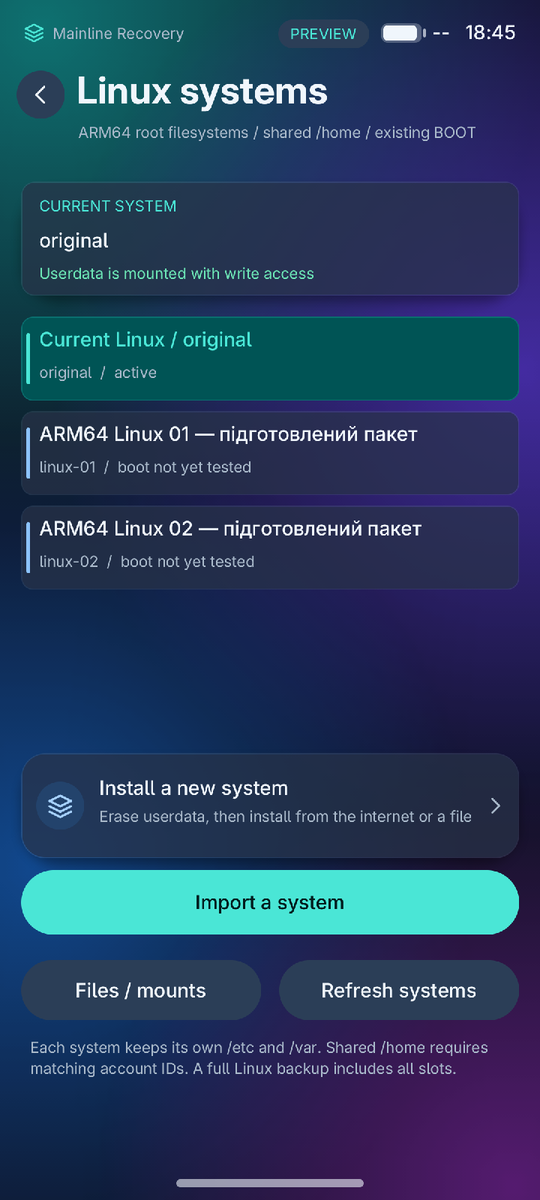
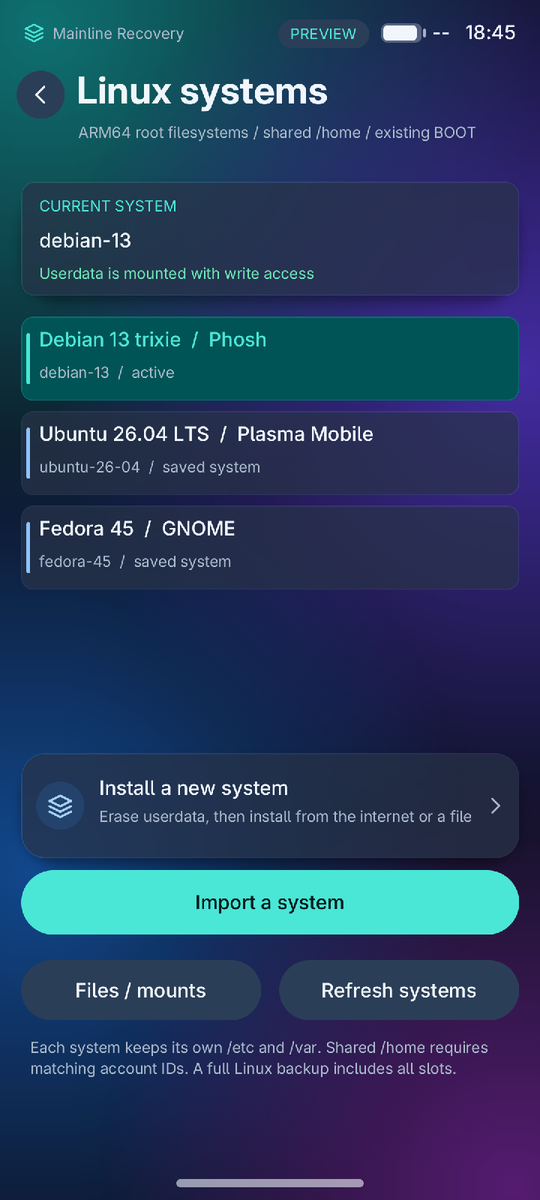
English screenshots with real distributions, a guide to making themes
The published English pages use previews with real distributions and English
names; new pages show the apps, a clean install, the terminal colors and every
theme. docs/MAKING_THEMES.md (and _UK) explains how to write a theme file.

Claude-Session: https://claude.ai/code/session_011X51ML8nmkZnA9U8adKvGD

Changed region(s): [[0.0593, 0.2775, 0.7704, 0.4008], [0.0593, 0.4317, 0.7704, 0.4933], [0.0889, 0.185, 0.237, 0.2158]]

diff --git a/ui/recovery_ui.c b/ui/recovery_ui.c
@@ -5086,6 +5086,38 @@ static bool preview(App*a,const char*name){
         copy(a->ssh_address,sizeof(a->ssh_address),"172.16.42.1");copy(a->ssh_fingerprint,sizeof(a->ssh_fingerprint),"SHA256:ExamplePreviewKeyNotARealPhoneFingerprint");
         if(!strcmp(name,"tools-end")){a->screen=TOOLS;render(a);a->tools_scroll=tools_max_scroll(a);} /* 2026-11-11: the reset of the settings is the last thing on the page. */
     }
+    /* Pages for the published screenshots (2026-11-12, the owner: real distributions and English
+       names, not the test fixtures with their Ukrainian files and invented systems). */
+    else if(!strcmp(name,"doc-plan")){
+        a->systems_known=a->systems_mounted=a->systems_initialized=a->systems_platform=a->systems_empty=true;a->systems_slot_count=0;a->systems_active[0]=0;
+        a->systems_desktop=2;a->systems_apps=(1u<<0)|(1u<<1)|(1u<<7)|(1u<<8);copy(a->systems_wifi_ssid,sizeof(a->systems_wifi_ssid),"Home 5G");copy(a->systems_wifi_password,sizeof(a->systems_wifi_password),"preview-password");
+        a->screen=SYSTEMS_PLAN;a->systems_plan_valid=a->systems_plan_clean=true;a->systems_plan_expires=(uint64_t)time(NULL)+600;a->systems_plan_kind=J_SYS_IMPORT_PLAN;
+        copy(a->systems_plan_slot,sizeof(a->systems_plan_slot),"debian-13");copy(a->systems_plan_name,sizeof(a->systems_plan_name),"Debian 13 trixie (arm64)");
+        copy(a->systems_source_volume,sizeof(a->systems_source_volume),"catalog");copy(a->systems_manifest,sizeof(a->systems_manifest),"debian-13-nocloud-arm64.tar.xz");
+        a->systems_required_bytes=6442450944ULL;a->systems_available_bytes=52076478464ULL;
+    }
+    else if(!strcmp(name,"doc-terminal")){
+        a->screen=TERMINAL;a->terminal_known=a->terminal_available=true;terminal_reset_view(a);copy(a->terminal_state,sizeof(a->terminal_state),"active");
+        memset(a->terminal_session,'1',64);a->terminal_session[64]=0;a->terminal_rows=TERMINAL_ROWS;a->terminal_cols=TERMINAL_COLS;
+        const char*text="\033[1;32mroot@recovery\033[0m:~# uname -r\r\n7.2.0-a22x-recovery+\r\n"
+            "\033[1;32mroot@recovery\033[0m:~# ls /mnt/volumes\r\n\033[1;34mcache\033[0m  \033[1;34msdcard-p1\033[0m  \033[1;34msuper-system\033[0m  \033[1;34muserdata\033[0m\r\n"
+            "\033[1;32mroot@recovery\033[0m:~# df -h /mnt/volumes/userdata\r\nFilesystem      Size  Used Avail Use% Mounted on\r\n/dev/mmcblk0p54  49G   14G   35G  29% /mnt/volumes/userdata\r\n"
+            "\033[1;32mroot@recovery\033[0m:~# cat /etc/os-release | head -2\r\nPRETTY_NAME=\"Debian GNU/Linux 13 (trixie)\"\r\nNAME=\"Debian GNU/Linux\"\r\n"
+            "\033[1;32mroot@recovery\033[0m:~# cat /sys/class/power_supply/battery/capacity\r\n87\r\n\033[1;32mroot@recovery\033[0m:~# ";
+        tm_feed(&a->terminal,text,strlen(text));a->terminal_scroll=terminal_max_scroll(a);
+    }
+    else if(!strcmp(name,"doc-systems")){
+        static const char*const ids[]={"debian-13","ubuntu-26-04","fedora-45"},*const names[]={"Debian 13 trixie  /  Phosh","Ubuntu 26.04 LTS  /  Plasma Mobile","Fedora 45  /  GNOME"};
+        a->screen=SYSTEMS;a->systems_known=a->systems_mounted=a->systems_initialized=a->systems_platform=true;copy(a->systems_active,sizeof(a->systems_active),"debian-13");a->systems_slot_count=3;
+        for(int n=0;n<3;n++){SystemSlot*slot=&a->systems_slots[n];copy(slot->id,sizeof(slot->id),ids[n]);copy(slot->name,sizeof(slot->name),names[n]);slot->active=n==0;slot->boot_tested=true;}
+    }
+    else if(!strcmp(name,"doc-files")){
+        static const char*const names[]={"Documents","Downloads","Pictures","config.ini","start-phosh.sh","notes.txt","backup-2026-11-12.tar.zst"};
+        static const char*const types[]={"directory","directory","directory","file","file","file","file"};
+        static const uint64_t sizes[]={0,0,0,1536,2048,4096,734003200ULL};
+        a->screen=FILE_BROWSER;copy(a->fs_path,sizeof(a->fs_path),"/home/user");a->file_count=7;a->file_total=7;a->files_more=false;
+        for(int n=0;n<7;n++){FileEntry*e=&a->files[n];copy(e->name,sizeof(e->name),names[n]);child_path(a->fs_path,names[n],e->path,sizeof(e->path));copy(e->type,sizeof(e->type),types[n]);copy(e->mode,sizeof(e->mode),n==4?"0755":"0644");e->metadata_supported=true;e->size=sizes[n];}
+    }
     else if(!strcmp(name,"terminal")||!strcmp(name,"terminal-unicode")||!strcmp(name,"terminal-scroll")||!strcmp(name,"terminal-ready")){
         a->screen=TERMINAL;a->terminal_known=a->terminal_available=true;terminal_reset_view(a);
         copy(a->terminal_state,sizeof(a->terminal_state),!strcmp(name,"terminal-ready")?"stopped":"active");
@@ -5359,9 +5391,11 @@ static bool preview(App*a,const char*name){
             {"Дім 5G","WPA2","5 GHz",4,true,true},{"Hotspot","WPA2","2.4 GHz",3,true,true},{"Кав'ярня біля парку","Open","2.4 GHz",2,false,true},
             {"Office-WPA3","WPA3","5 GHz",2,true,false},{"Сусіди","WPA2","2.4 GHz",1,true,true}};
         a->wifi_known=a->wifi_available=a->wifi_on=true;a->wifi_count=0;
+        /* wifi-doc: the joined list with English names, for the published screenshots. */
+        static const char*const english[]={"Home 5G","Hotspot","Cafe Guest","Office-WPA3","Neighbours"};bool doc=!strcmp(name,"wifi-doc");if(doc)name="wifi-connected";
         for(size_t n=0;n<sizeof(nets)/sizeof(nets[0]);n++){
-            WifiNet*w=&a->wifi_nets[a->wifi_count++];memset(w,0,sizeof(*w));copy(w->ssid,sizeof(w->ssid),nets[n].ssid);
-            for(size_t k=0;nets[n].ssid[k]&&k<32;k++)snprintf(w->hex+2*k,3,"%02x",(unsigned char)nets[n].ssid[k]);
+            WifiNet*w=&a->wifi_nets[a->wifi_count++];memset(w,0,sizeof(*w));const char*ssid=doc?english[n]:nets[n].ssid;copy(w->ssid,sizeof(w->ssid),ssid);
+            for(size_t k=0;ssid[k]&&k<32;k++)snprintf(w->hex+2*k,3,"%02x",(unsigned char)ssid[k]);
             copy(w->security,sizeof(w->security),nets[n].security);copy(w->band,sizeof(w->band),nets[n].band);
             w->bars=nets[n].bars;w->secure=nets[n].secure;w->supported=nets[n].supported;
         }

diff --git a/docs/MAKING_THEMES_UK.md b/docs/MAKING_THEMES_UK.md
@@ -1,0 +1,109 @@
+# Як зробити власну тему
+
+Mainline Recovery може брати теми й кольори термінала з файла. Тема — це невеликий текстовий файл
+із закінченням `.a22xtheme`. Його можна написати в будь-якому текстовому редакторі; інструменти
+потрібні лише для фонового малюнка.
+
+English: [MAKING_THEMES.md](MAKING_THEMES.md) · Кожне поле докладно: [THEMES_API.md](../THEMES_API.md)
+
+## 1. Тема з вашими кольорами
+
+Збережіть це як `deep-sea.a22xtheme`:
+
+```json
+{
+  "format": 1,
+  "code": "deep-sea",
+  "name": "Deep Sea",
+  "note": "Dark blue with a coral accent",
+  "dark": true,
+  "layout": "tiles",
+  "colors": {
+    "bg": "#0b1622",
+    "panel": "#13263a",
+    "text": "#eaf3fb",
+    "muted": "#9fb6c9",
+    "accent": "#ff7f6a",
+    "on_accent": "#2a0d07"
+  }
+}
+```
+
+Обов'язкових кольорів шість:
+
+| Колір | Де він видний |
+|---|---|
+| `bg` | Тло сторінки |
+| `panel` | Картки й кнопки |
+| `text` | Звичайний текст |
+| `muted` | Дрібніші підписи під текстом |
+| `accent` | Головні кнопки, вибраний варіант, перемикачі |
+| `on_accent` | Текст на кольорі `accent` |
+
+Решту (рамки, велику картку «Встановлення», кольори плиток) recovery виводить із цих шести. Кожен
+з них можна задати й самому; назви є в [THEMES_API.md](../THEMES_API.md).
+
+Інші поля:
+
+- `code`: коротка назва, від 3 до 23 символів `a-z`, `0-9` і `-`. Назви вбудованих тем
+  (`graphite`, `daylight`, `aurora`…) не дозволені.
+- `name` і `note`: що показує список тем.
+- `dark`: `true` для темної теми, `false` для світлої.
+- `layout`: `tiles` для великої головної сторінки з плитками, `list` для простого списку.
+
+## 2. Кольори термінала
+
+Файл лише з розділом `terminal` додає кольори термінала без теми. Палітра має 16 кольорів: чорний,
+червоний, зелений, жовтий, синій, пурпуровий, блакитний, білий, а потім ці ж вісім у яскравому
+варіанті.
+
+```json
+{
+  "format": 1,
+  "code": "my-terminal",
+  "name": "My terminal",
+  "terminal": {
+    "background": "#101418",
+    "foreground": "#d8dee9",
+    "palette": ["#101418", "#e06c75", "#98c379", "#e5c07b", "#61afef", "#c678dd", "#56b6c2", "#abb2bf",
+                "#5c6370", "#ff7b86", "#b5e08f", "#ffd68a", "#82c4ff", "#dd9cf0", "#7fd3dd", "#ffffff"]
+  }
+}
+```
+
+Тема теж може мати розділ `terminal`; тоді обидва беруться з одного файла.
+
+## 3. Як поставити її на телефон
+
+1. Скопіюйте файл на microSD, USB-накопичувач або сам телефон (наприклад, через «USB-файли» в
+   recovery).
+2. У recovery відкрийте **Налаштування → Тема → Додати тему з файлу** (або **Налаштування → Кольори
+   термінала → Додати кольори з файлу**) і виберіть файл. Можна також торкнутися файла у
+   **Файлах** і натиснути **Застосувати тему**.
+
+Тема лишається після перезапуску. Можна додати до восьми тем. Щоб прибрати тему, двічі торкніться
+кошика на її картці.
+
+## 4. Перевірка читабельності
+
+Перш ніж прийняти тему, recovery перевіряє контраст тексту з тлом. Тему, яку важко читати, він
+відкидає з повідомленням **THEME_UNREADABLE**, тож ви ніколи не опинитеся перед екраном, який
+неможливо прочитати. Якщо так сталося, зробіть `text` і `muted` світлішими на темній темі (або
+темнішими на світлій) і спробуйте ще раз.
+
+## 5. Фоновий малюнок
+
+Для малюнка під картками потрібен комп'ютер із Python і Pillow:
+
+```
+tools/pack_theme.py deep-sea.json --image picture.png --output deep-sea.a22xtheme
+```
+
+`deep-sea.json` — той самий текст, що вище. Малюнок масштабується до 540 × 1204. Необов'язкове
+поле `glass` задає, наскільки він просвічує крізь картки:
+
+```json
+"glass": {"surface_alpha": 176, "edge_alpha": 84, "shadow_strength": 84}
+```
+
+`themes/beaver.json` — повний приклад з малюнком, а `themes/draw_beaver.py` його малює.

diff --git a/docs/MAKING_THEMES.md b/docs/MAKING_THEMES.md
@@ -1,0 +1,108 @@
+# Making your own theme
+
+Mainline Recovery can use themes and terminal colors from a file. A theme is a small text file
+ending in `.a22xtheme`. You can write one in any text editor; no tools are needed unless you want a
+background picture.
+
+Ukrainian: [MAKING_THEMES_UK.md](MAKING_THEMES_UK.md) · Every field in detail: [THEMES_API.md](../THEMES_API.md)
+
+## 1. A theme with your colors
+
+Save this as `deep-sea.a22xtheme`:
+
+```json
+{
+  "format": 1,
+  "code": "deep-sea",
+  "name": "Deep Sea",
+  "note": "Dark blue with a coral accent",
+  "dark": true,
+  "layout": "tiles",
+  "colors": {
+    "bg": "#0b1622",
+    "panel": "#13263a",
+    "text": "#eaf3fb",
+    "muted": "#9fb6c9",
+    "accent": "#ff7f6a",
+    "on_accent": "#2a0d07"
+  }
+}
+```
+
+Six colors are required:
+
+| Color | Where it is used |
+|---|---|
+| `bg` | The page background |
+| `panel` | Cards and buttons |
+| `text` | Normal text |
+| `muted` | Smaller notes under the text |
+| `accent` | Main buttons, the chosen option, switches |
+| `on_accent` | Text on the accent color |
+
+Everything else (borders, the large Install card, the colors of the tiles) is worked out from these.
+You can still set any of them yourself; [THEMES_API.md](../THEMES_API.md) lists the names.
+
+Other fields:
+
+- `code`: a short name, 3 to 23 characters of `a-z`, `0-9` and `-`. It must not be the name of a
+  built-in theme (`graphite`, `daylight`, `aurora`…).
+- `name` and `note`: what the theme list shows.
+- `dark`: `true` for a dark theme, `false` for a light one.
+- `layout`: `tiles` for the large home page with tiles, `list` for a plain list.
+
+## 2. Terminal colors
+
+A file with only a `terminal` section adds terminal colors and no theme. The palette has 16 colors:
+black, red, green, yellow, blue, magenta, cyan, white, then the same eight in their bright form.
+
+```json
+{
+  "format": 1,
+  "code": "my-terminal",
+  "name": "My terminal",
+  "terminal": {
+    "background": "#101418",
+    "foreground": "#d8dee9",
+    "palette": ["#101418", "#e06c75", "#98c379", "#e5c07b", "#61afef", "#c678dd", "#56b6c2", "#abb2bf",
+                "#5c6370", "#ff7b86", "#b5e08f", "#ffd68a", "#82c4ff", "#dd9cf0", "#7fd3dd", "#ffffff"]
+  }
+}
+```
+
+A theme may also carry a `terminal` section; then both come from one file.
+
+## 3. Put it on the phone
+
+1. Copy the file to a microSD card, a USB stick, or the phone (for example with USB files from the
+   recovery).
+2. In the recovery, open **Settings → Theme → Add a theme from a file** (or **Settings → Terminal
+   colors → Add colors from a file**) and choose the file. You can also tap the file in **Files** and
+   press **Use this theme**.
+
+The theme stays after a restart. Up to eight themes can be added. To remove one, tap the bin on its
+card twice.
+
+## 4. Readability check
+
+The recovery checks the contrast of text against the background before it accepts a theme. A theme
+that would be hard to read is refused with **THEME_UNREADABLE**, so you can never end up in front of
+a screen you cannot read. If that happens, make `text` and `muted` lighter on a dark theme (or darker
+on a light one) and try again.
+
+## 5. A background picture
+
+For a picture behind the cards you need a computer with Python and Pillow:
+
+```
+tools/pack_theme.py deep-sea.json --image picture.png --output deep-sea.a22xtheme
+```
+
+`deep-sea.json` is the same text as above. The picture is scaled to 540 × 1204. The optional `glass`
+field sets how much of it shows through the cards:
+
+```json
+"glass": {"surface_alpha": 176, "edge_alpha": 84, "shadow_strength": 84}
+```
+
+`themes/beaver.json` is a complete example with a picture, and `themes/draw_beaver.py` draws it.

diff --git a/README.md b/README.md
@@ -110,8 +110,9 @@ More, page by page: [docs/screenshots/en](docs/screenshots/en).
 ### Interface
 
 - Six languages: English, Ukrainian, German, French, Polish, Spanish.
-- Themes, animations, 60/90 Hz, brightness, screen timeout, gesture or button
+- Themes, animations, 60/90 Hz, brightness, vibration strength, screen timeout, gesture or button
   navigation.
+- Your own themes and terminal colors from a file: [docs/MAKING_THEMES.md](docs/MAKING_THEMES.md).
 
 ### Android app
 
